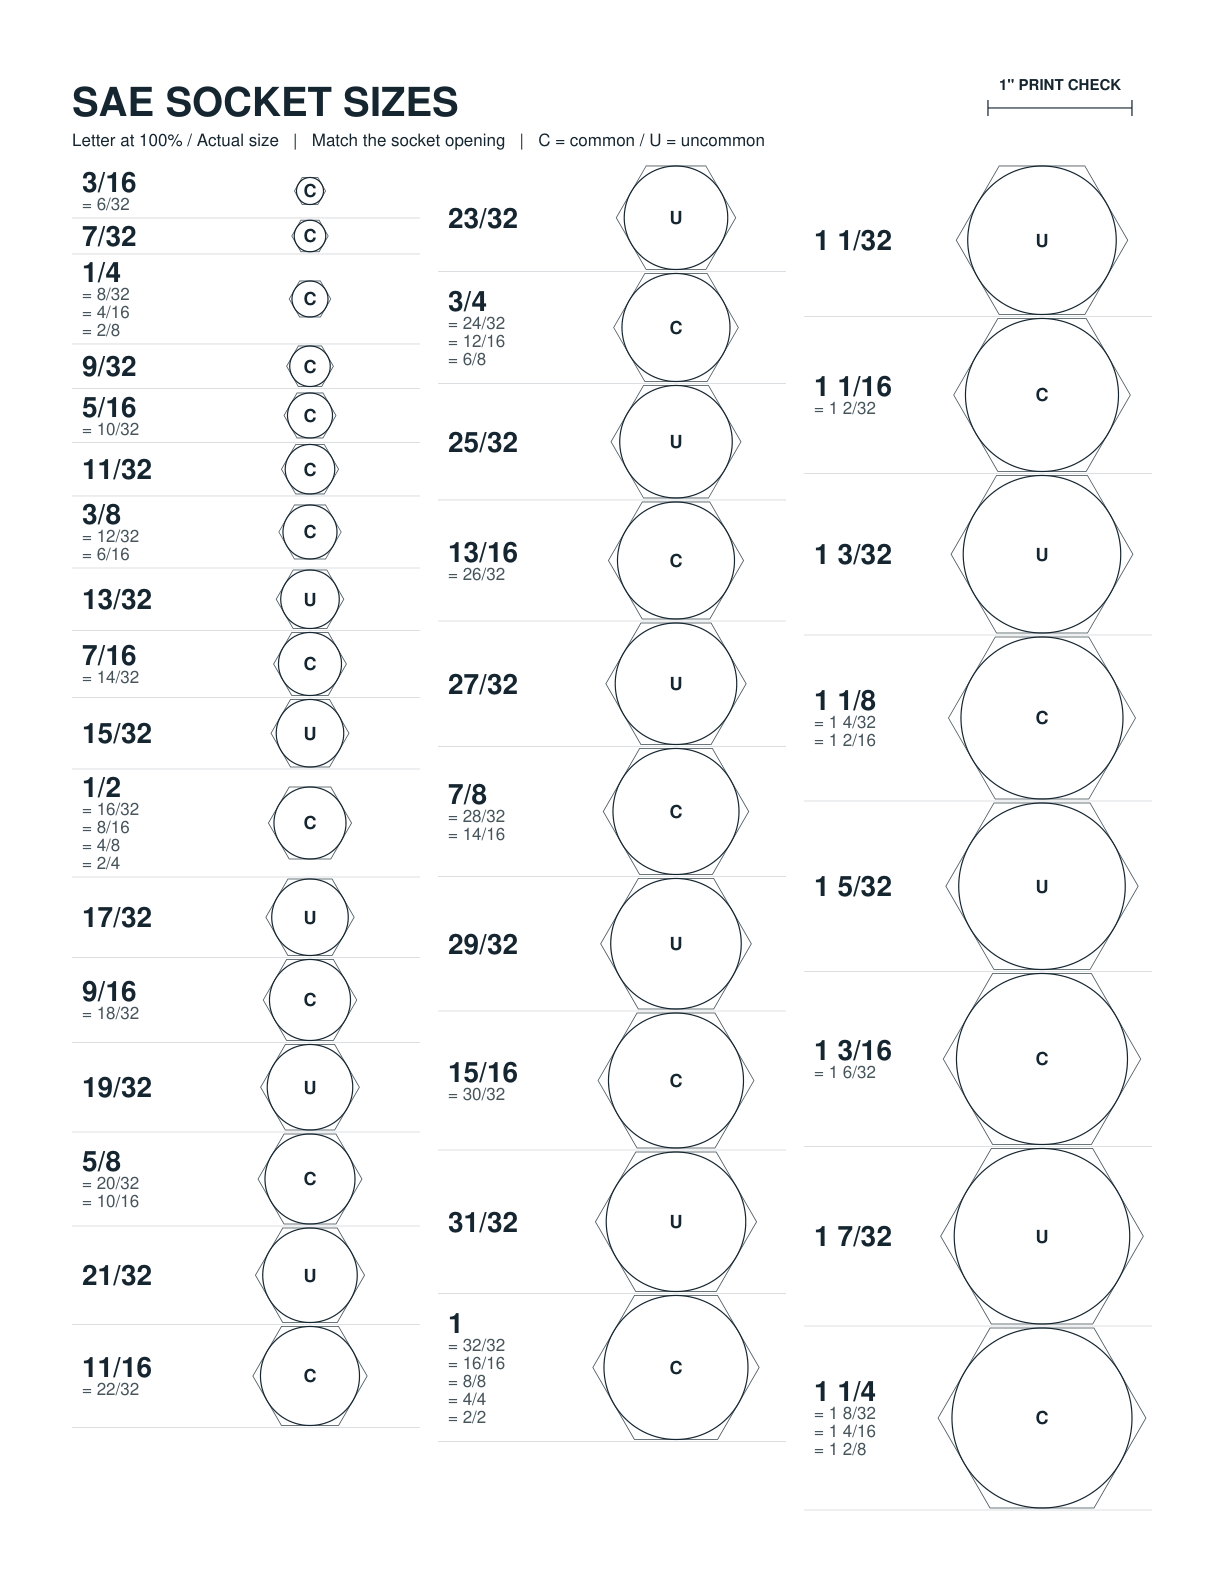
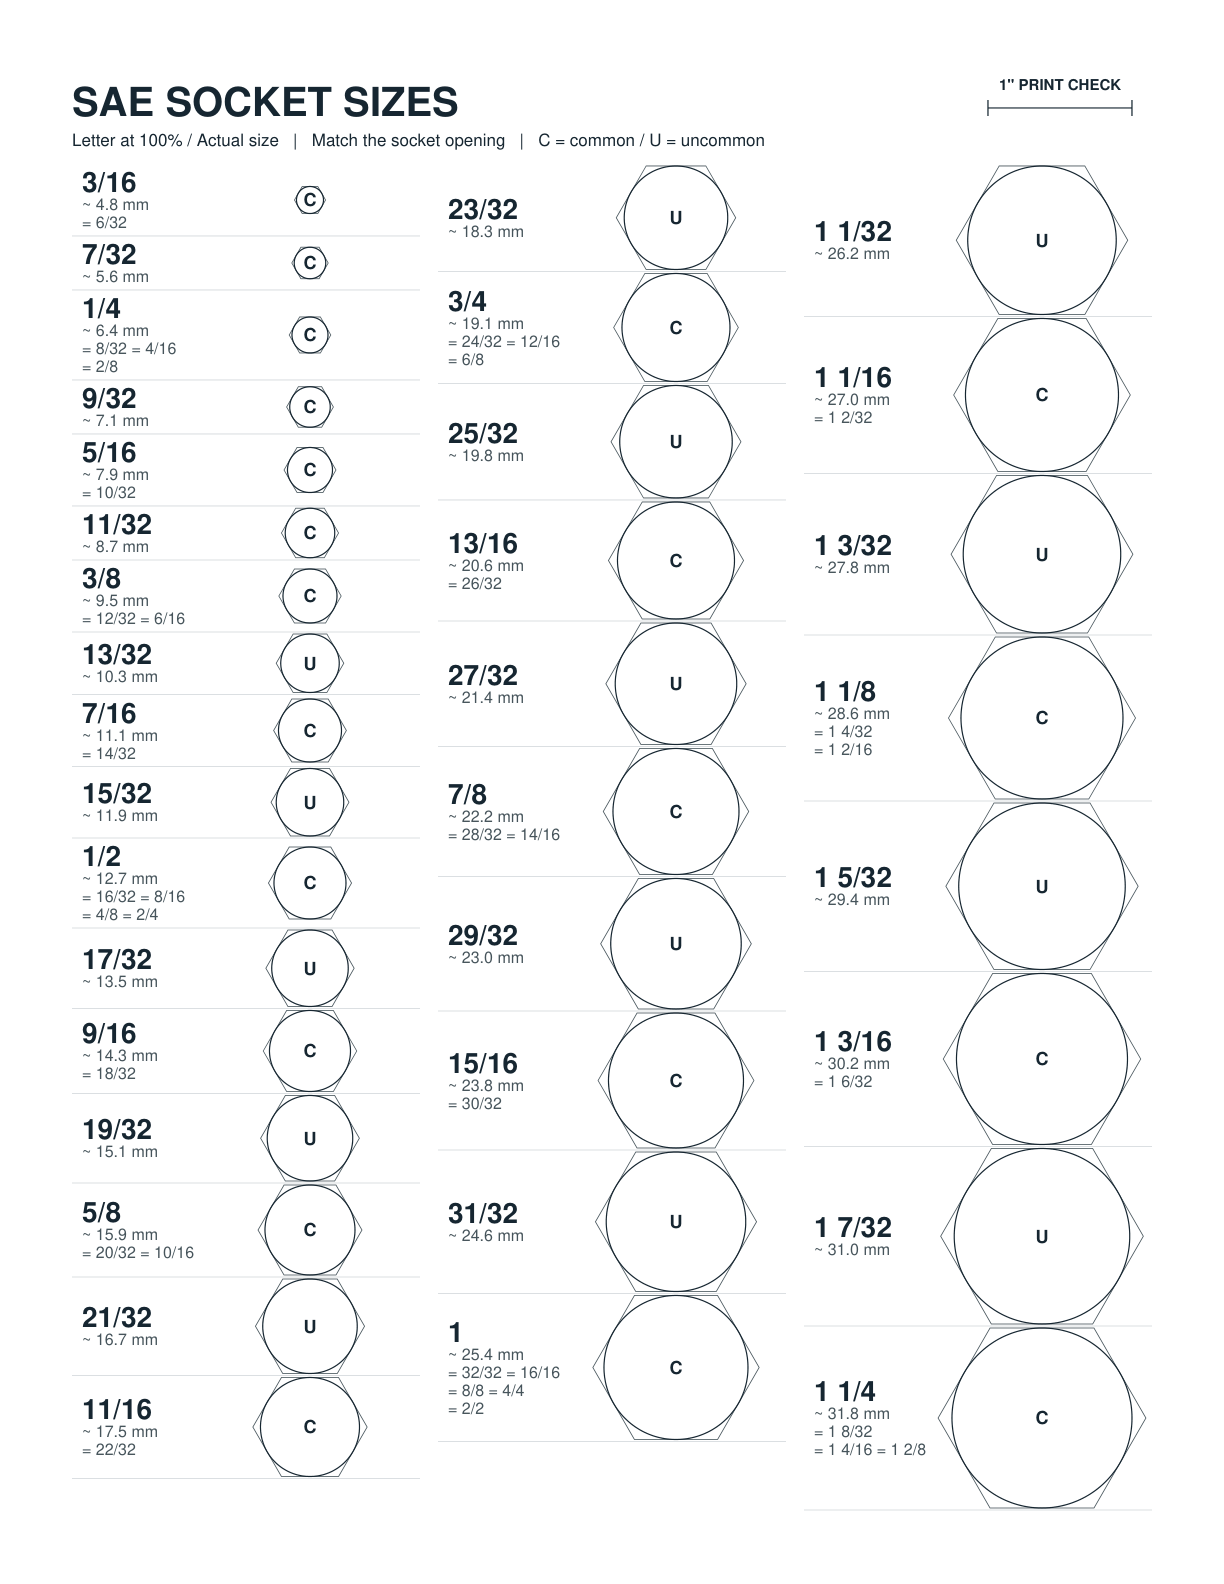
docs: add approximate metric socket measurements

diff --git a/printables/wrench-reference/build_fraction_reference.py b/printables/wrench-reference/build_fraction_reference.py
@@ -4,12 +4,14 @@
 # ///
 """Generate a true-size SAE socket reference and its PNG preview."""
 
+from decimal import ROUND_HALF_UP, Decimal
 from fractions import Fraction
 from math import cos, pi, sin, sqrt
 from pathlib import Path
 
 import pymupdf
 from reportlab.lib.colors import HexColor
+from reportlab.pdfbase.pdfmetrics import stringWidth
 from reportlab.pdfgen import canvas
 
 OUT = Path(__file__).resolve().parent
@@ -46,9 +48,30 @@ def equivalents(value):
     return forms
 
 
+def equivalent_lines(value):
+    lines = []
+    current = ""
+    for form in equivalents(value):
+        candidate = current + " = " + form if current else "= " + form
+        if stringWidth(candidate, "Helvetica", 8) > 58:
+            lines.append(current)
+            current = "= " + form
+        else:
+            current = candidate
+    if current:
+        lines.append(current)
+    return lines
+
+
+def metric(value):
+    millimeters = Decimal(value.numerator) * Decimal("25.4") / value.denominator
+    rounded = millimeters.quantize(Decimal("0.1"), rounding=ROUND_HALF_UP)
+    return f"~ {rounded} mm"
+
+
 C = canvas.Canvas(str(PDF), pagesize=(WIDTH, HEIGHT), pageCompression=1)
 C.setTitle("SAE Socket Sizes | Shop Reference")
-C.setSubject("True-size opening guides from 3/16 to 1 1/4 inch; common sizes labeled")
+C.setSubject("True-size SAE opening guides with approximate metric measurements and common size labels")
 C.setFillColor(INK)
 C.setFont("Helvetica-Bold", 20)
 C.drawString(MARGIN, HEIGHT - 58, "SAE SOCKET SIZES")
@@ -66,18 +89,18 @@ for x in (494, 566):
 def column(x, sizes):
     top = 82
     for size in sizes:
-        forms = equivalents(size)
+        details = [metric(size), *equivalent_lines(size)]
         diameter = float(size) * 72
-        row_height = max(diameter + 2, 18 + 9 * len(forms))
+        row_height = max(diameter + 2, 18 + 9 * len(details))
         center_y = HEIGHT - top - row_height / 2
-        baseline = center_y + (14 + 9 * len(forms)) / 2 - 12
+        baseline = center_y + (14 + 9 * len(details)) / 2 - 12
         C.setFillColor(INK)
         C.setFont("Helvetica-Bold", 14)
         C.drawString(x + 5, baseline, mixed(size))
         C.setFillColor(MUTED)
-        C.setFont("Helvetica", 8.5)
-        for index, form in enumerate(forms, start=1):
-            C.drawString(x + 5, baseline - index * 9, "= " + form)
+        C.setFont("Helvetica", 8)
+        for index, detail in enumerate(details, start=1):
+            C.drawString(x + 5, baseline - index * 9, detail)
 
         center_x = x + 119
         # The circle is inscribed: its diameter equals the hex's across-flats size.

diff --git a/printables/wrench-reference/README.md b/printables/wrench-reference/README.md
@@ -22,7 +22,9 @@ The script declares its dependencies and checks that the result fits on one US L
 ## SAE socket sizes
 
 [Print the fraction chart](fraction-size-order.pdf) for a smallest-to-largest reference covering every 1/32 inch from 3/16 through 1 1/4.
-Each row shows the size, equivalent fractions where applicable, and true-size circle and hexagon guides.
+Each row shows the size, its approximate metric measurement, equivalent fractions where applicable, and true-size circle and hexagon guides.
+Metric measurements use exactly 25.4 millimeters per inch and are rounded to one decimal place, with halves rounded up.
+The approximate metric measurements are conversions, not guaranteed interchangeable metric socket sizes.
 Read down each of the three columns, from left to right.
 
 Each circle contains C for common or U for uncommon.
